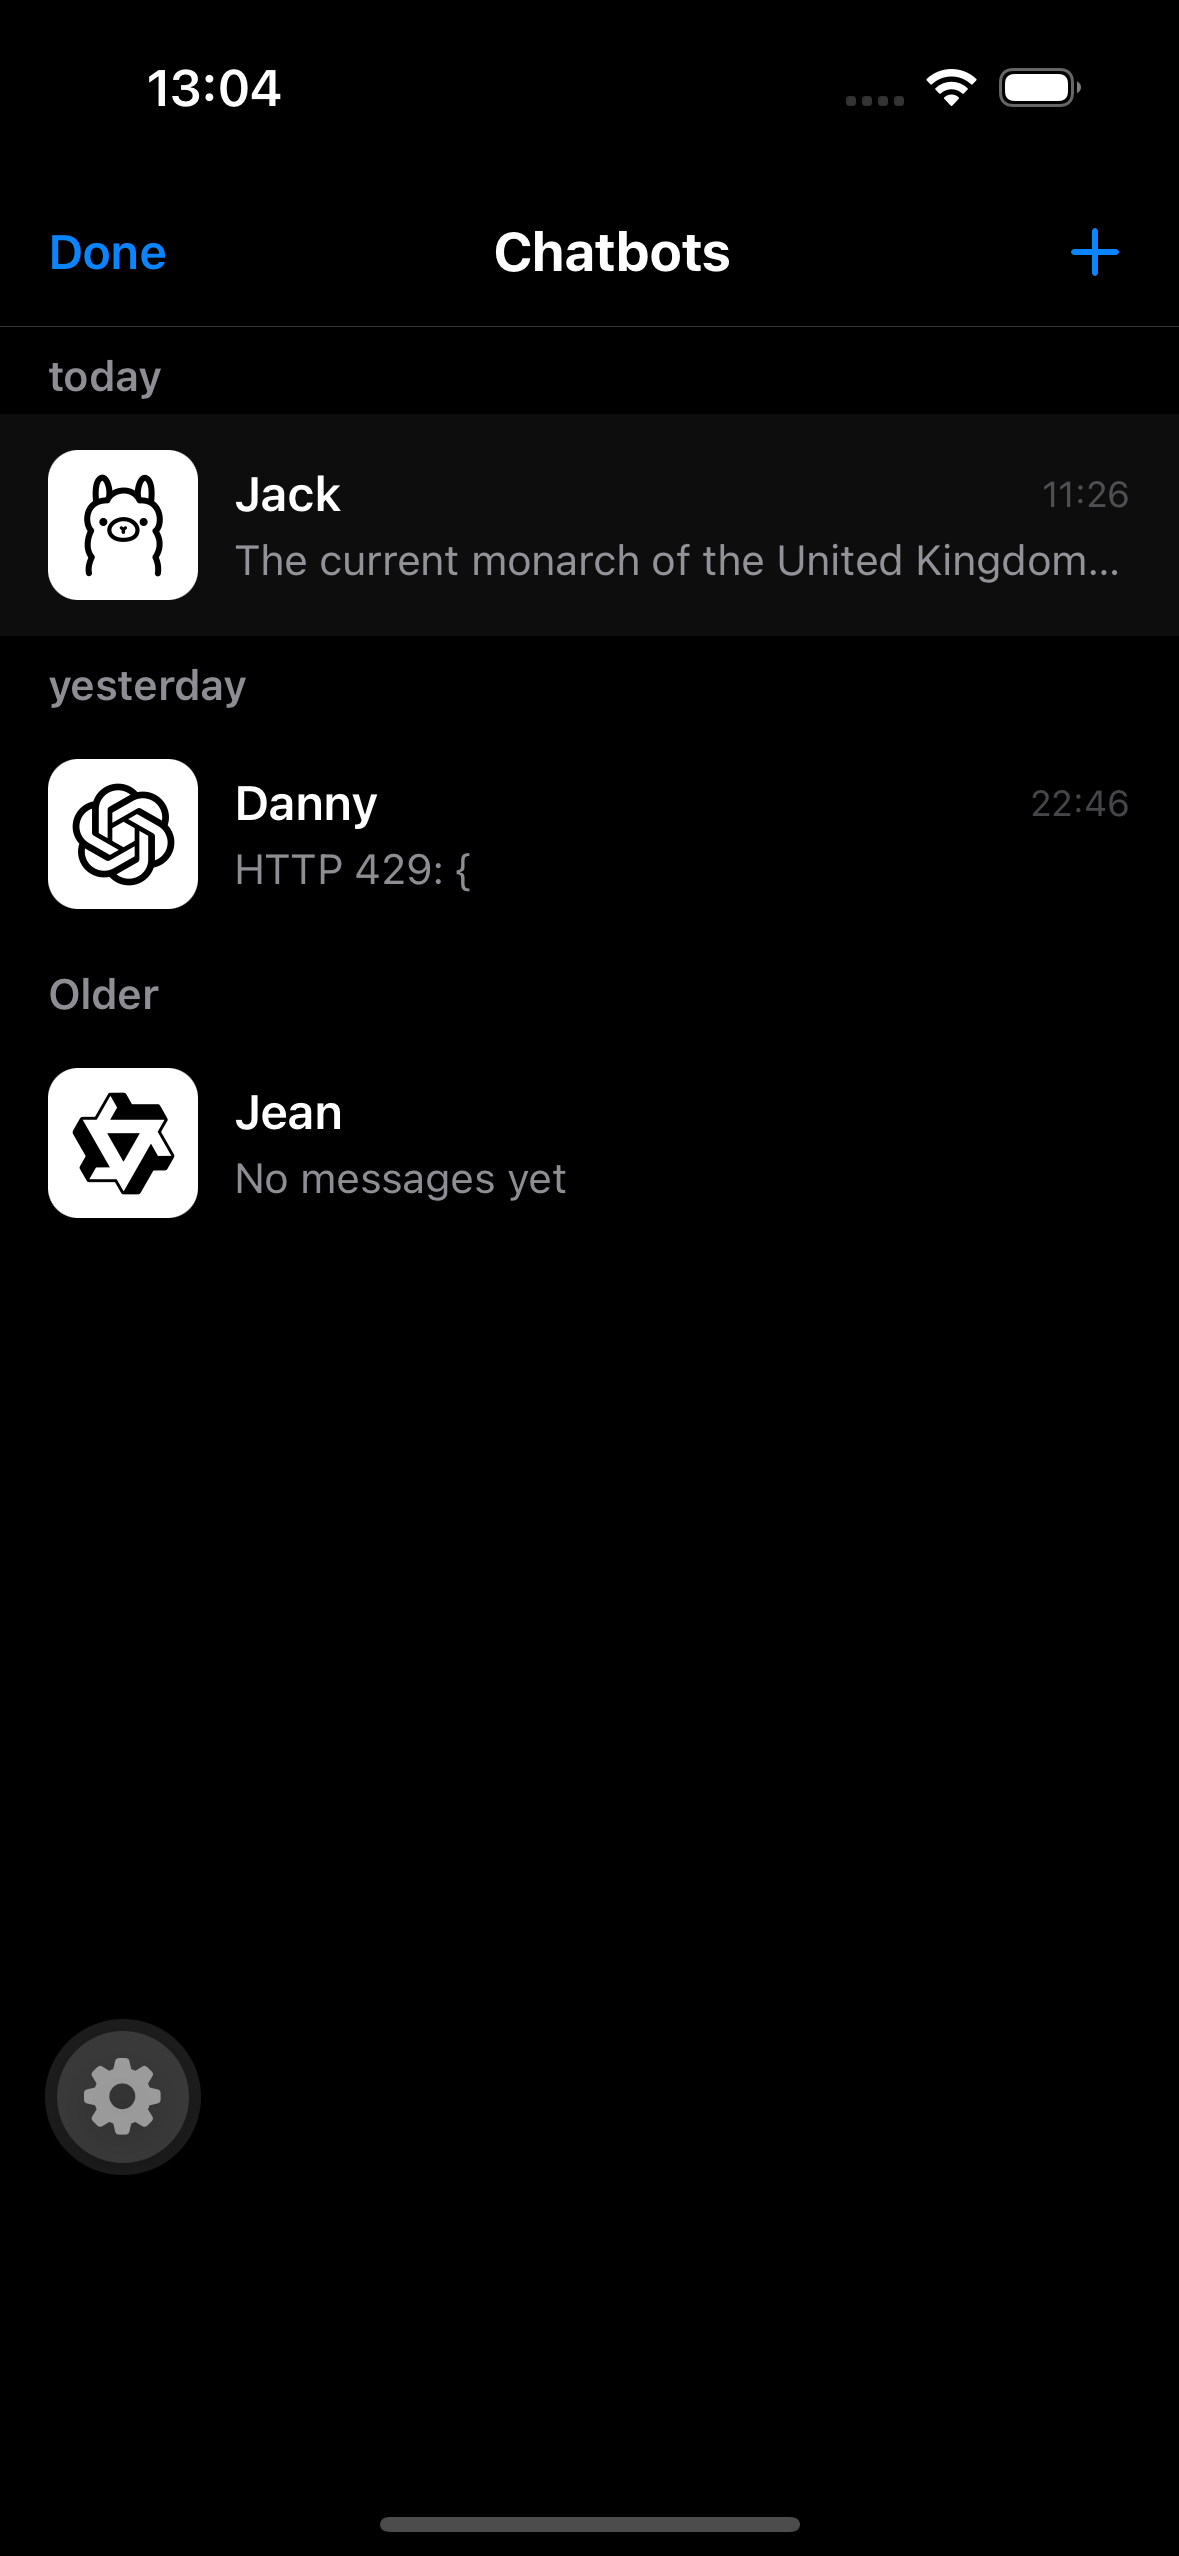
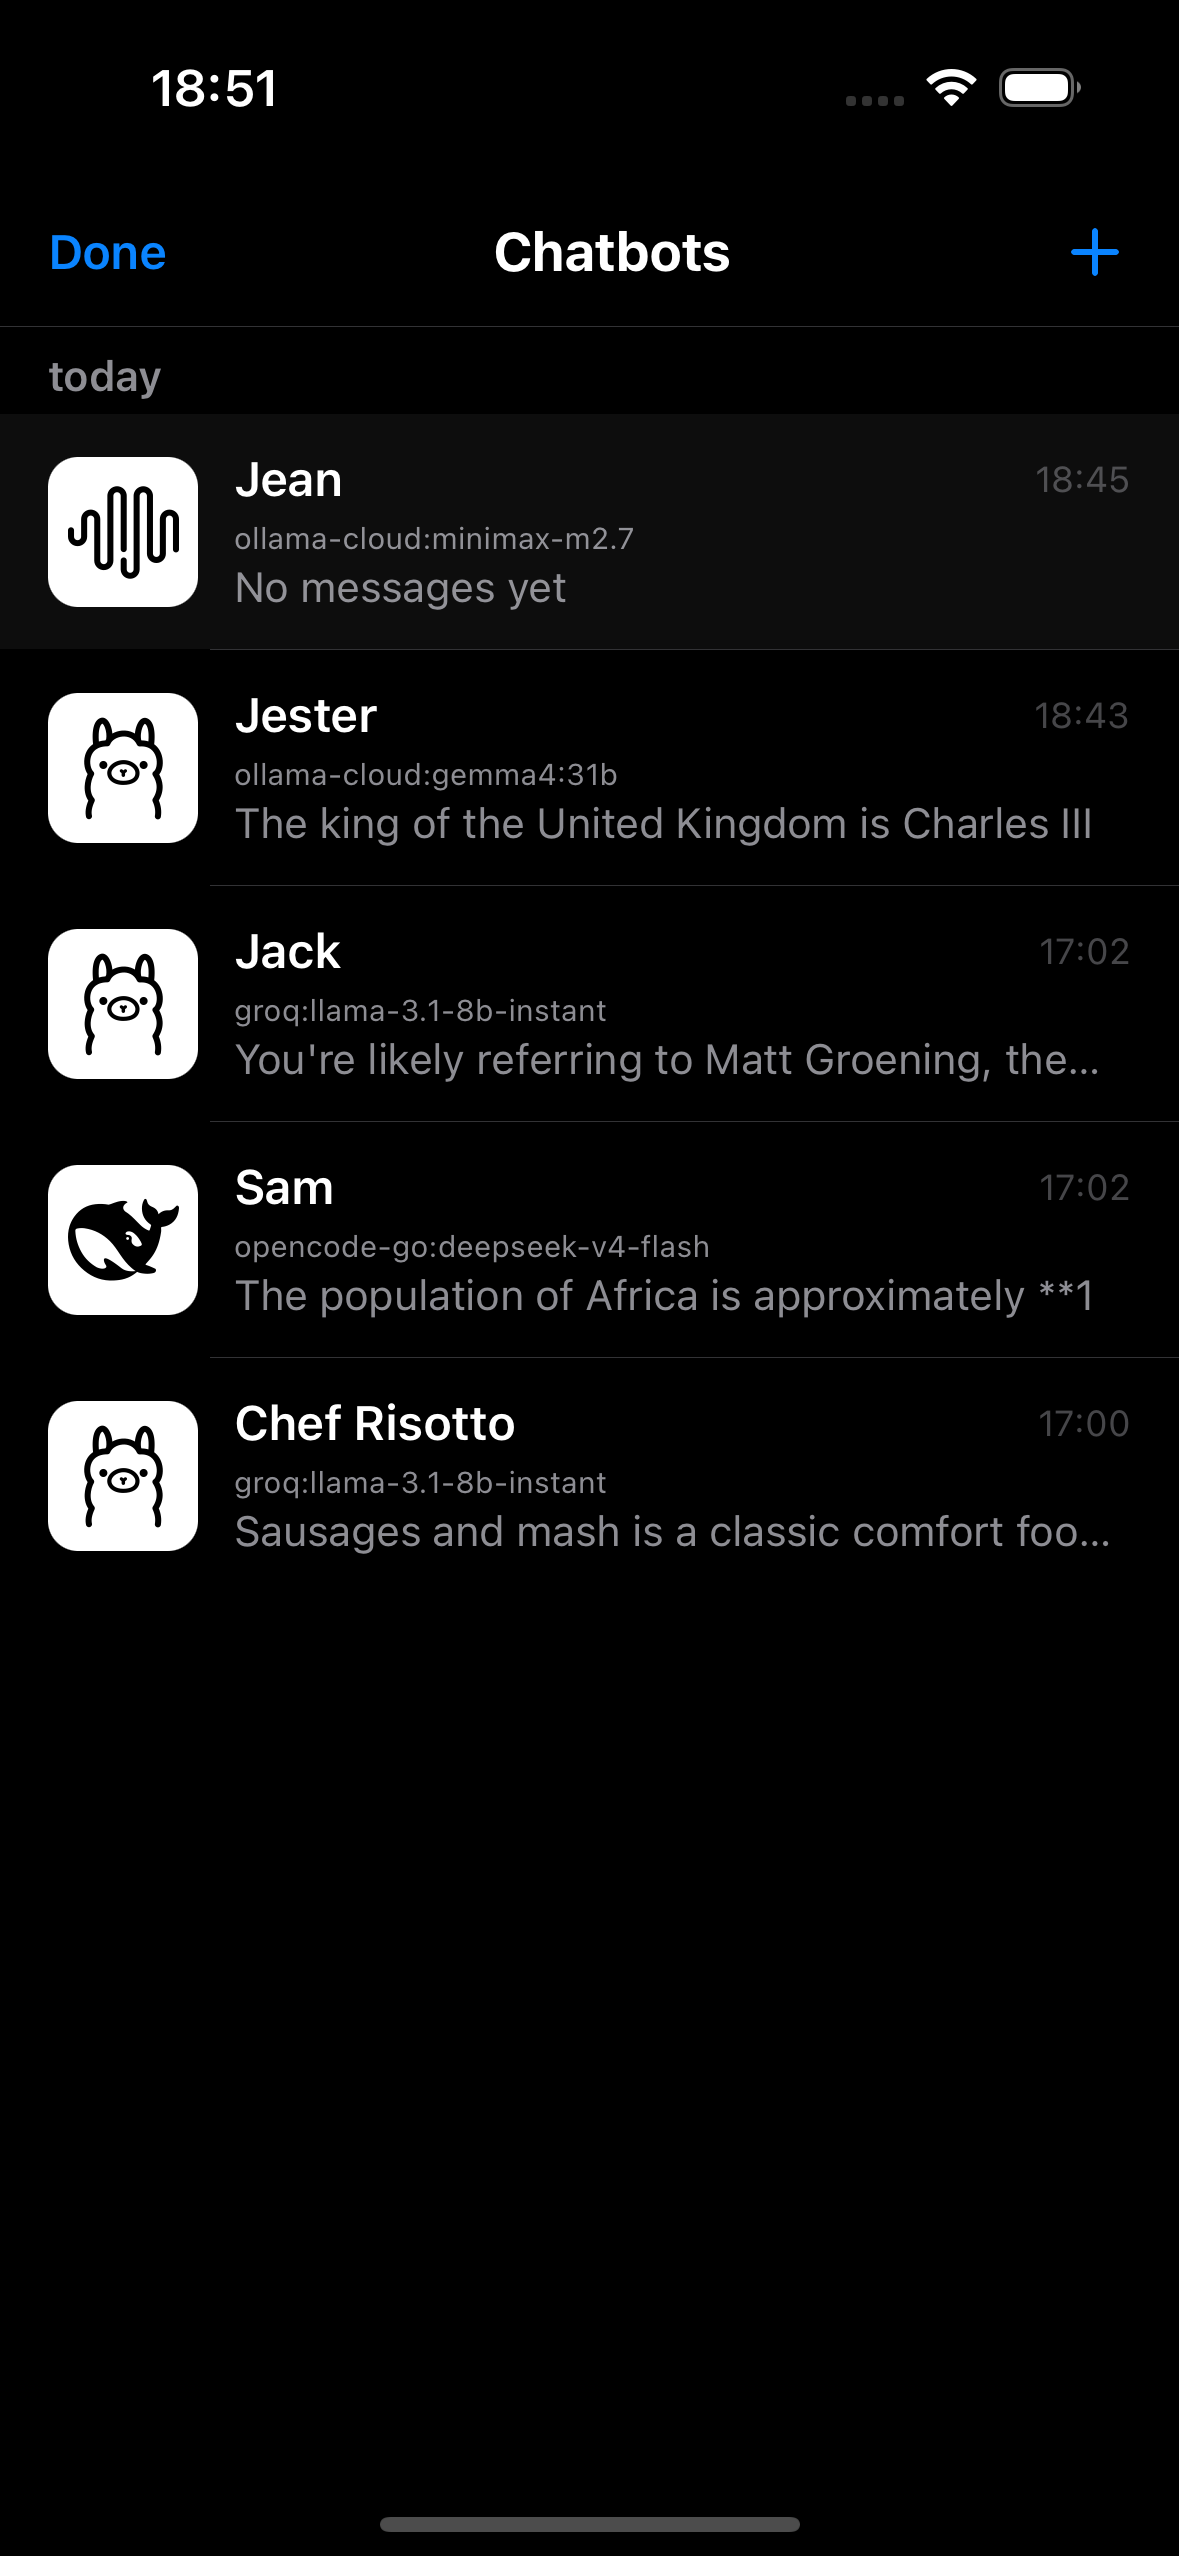
feat(chatbots): show provider/model on listitem

diff --git a/src/app/index.test.tsx b/src/app/index.test.tsx
@@ -24,7 +24,12 @@ describe('Home', () => {
     vi.setSystemTime(new Date('2026-05-07T12:00:00Z')); // Set to today for consistent tests
     vi.mocked(useRouter).mockReturnValue({ push: mockPush } as any);
     vi.mocked(useChatbotConfig).mockReturnValue({
-      config: { lastConversationAt: 1714992000000, name: 'Soren' },
+      config: {
+        lastConversationAt: 1714992000000,
+        llmModel: 'gpt-4o',
+        llmProvider: 'openai',
+        name: 'Soren',
+      },
       isLoading: false,
     } as any);
     vi.mocked(useChatStream).mockReturnValue({
@@ -43,10 +48,9 @@ describe('Home', () => {
     expect(screen.getByText('Soren')).toBeTruthy();
   });
 
-  it('renders last active timestamp if available', () => {
+  it('renders provider and model if available', () => {
     render(<Home />);
-    // 1714992000000 = May 6, 2024 (depending on locale, but checking prefix)
-    expect(screen.getByText(/Last active:/)).toBeTruthy();
+    expect(screen.getByText('openai:gpt-4o')).toBeTruthy();
   });
 
   it('renders date headers for messages from different days', () => {

diff --git a/src/app/index.tsx b/src/app/index.tsx
@@ -119,12 +119,9 @@ export default function Home() {
                 <Text style={styles.headerTitle}>
                   {config?.name ?? 'Soren'}
                 </Text>
-                {config?.lastConversationAt && (
-                  <Text style={styles.headerSubtitle}>
-                    Last active:{' '}
-                    {new Date(config.lastConversationAt).toLocaleDateString()}
-                  </Text>
-                )}
+                <Text style={styles.headerSubtitle}>
+                  {config?.llmProvider}:{config?.llmModel}
+                </Text>
               </View>
             </TouchableOpacity>
           </View>

diff --git a/src/app/voice.test.tsx b/src/app/voice.test.tsx
@@ -20,7 +20,13 @@ vi.mock('@/hooks/use-voice-mode', () => ({
 
 vi.mock('@/hooks/use-chatbot-config', () => ({
   useChatbotConfig: () => ({
-    config: { name: 'Soren', uuid: 'test-uuid', voiceId: 'voice-1' },
+    config: {
+      llmModel: 'gpt-4o',
+      llmProvider: 'openai',
+      name: 'Soren',
+      uuid: 'test-uuid',
+      voiceId: 'voice-1',
+    },
     isLoading: false,
   }),
 }));
@@ -34,6 +40,7 @@ describe('VoiceScreen', () => {
     render(<VoiceScreen />);
     expect(screen.getByText('Connecting…')).toBeTruthy();
     expect(screen.getByText('Soren')).toBeTruthy();
+    expect(screen.getByText('openai:gpt-4o')).toBeTruthy();
     expect(mockActivate).toHaveBeenCalled();
   });
 

diff --git a/src/app/voice.tsx b/src/app/voice.tsx
@@ -32,7 +32,9 @@ export default function VoiceScreen() {
   }, [activate, deactivate]);
 
   const chatbotName = config?.name ?? 'Soren';
-  const modelName = config?.llmModel ?? '';
+  const providerModel = config
+    ? `${config.llmProvider}:${config.llmModel}`
+    : '';
 
   const statusText =
     state === 'connecting'
@@ -73,7 +75,9 @@ export default function VoiceScreen() {
         <TouchableOpacity onPress={() => push('/chatbot-settings')}>
           <Text style={styles.name}>{chatbotName}</Text>
         </TouchableOpacity>
-        {modelName ? <Text style={styles.modelName}>{modelName}</Text> : null}
+        {providerModel ? (
+          <Text style={styles.modelName}>{providerModel}</Text>
+        ) : null}
         <Text style={[styles.status, error ? styles.statusError : null]}>
           {statusText}
         </Text>

diff --git a/src/components/chatbots/ChatbotListItem.tsx b/src/components/chatbots/ChatbotListItem.tsx
@@ -57,6 +57,9 @@ export function ChatbotListItem(props: ChatbotListItemProps) {
             </Text>
             <Text style={styles.itemTime}>{time}</Text>
           </View>
+          <Text style={styles.itemModel}>
+            {item.llmProvider}:{item.llmModel}
+          </Text>
           <Text numberOfLines={1} style={styles.itemSnippet}>
             {item.lastConversationSnippet || 'No messages yet'}
           </Text>
@@ -96,6 +99,11 @@ const styles = StyleSheet.create({
     flexDirection: 'row',
     justifyContent: 'space-between',
     marginBottom: spacing[1],
+  },
+  itemModel: {
+    color: colors.text2,
+    fontSize: 10,
+    marginBottom: 2,
   },
   itemName: {
     color: colors.text,

diff --git a/src/components/chatbots/ChatbotListItem.test.tsx b/src/components/chatbots/ChatbotListItem.test.tsx
@@ -43,6 +43,7 @@ describe('ChatbotListItem', () => {
     renderChatbotListItem();
 
     expect(screen.getByText('Test Bot')).toBeOnTheScreen();
+    expect(screen.getByText('openai:gpt-4o')).toBeOnTheScreen();
     expect(screen.getByText('Hello snippet')).toBeOnTheScreen();
     // Time for 1714992000000 depends on local timezone but should be present
     expect(screen.getByText(/\d{2}:\d{2}/)).toBeOnTheScreen();